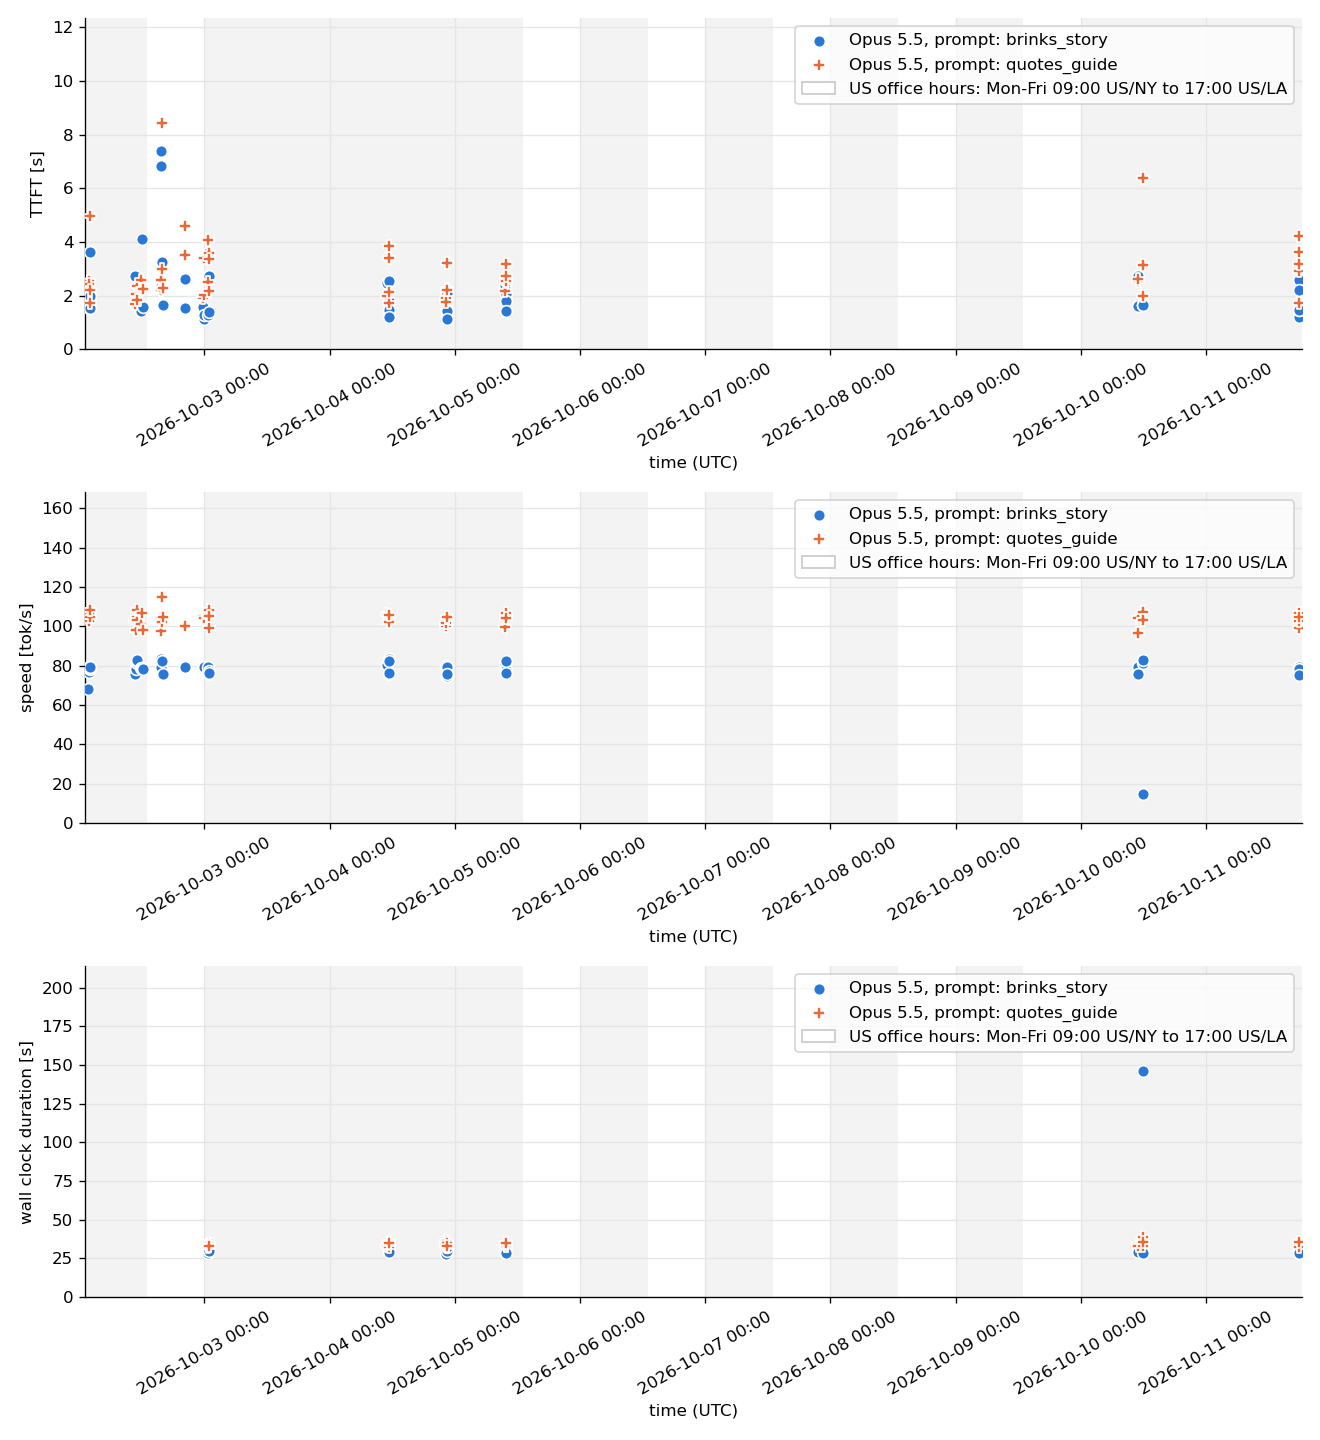
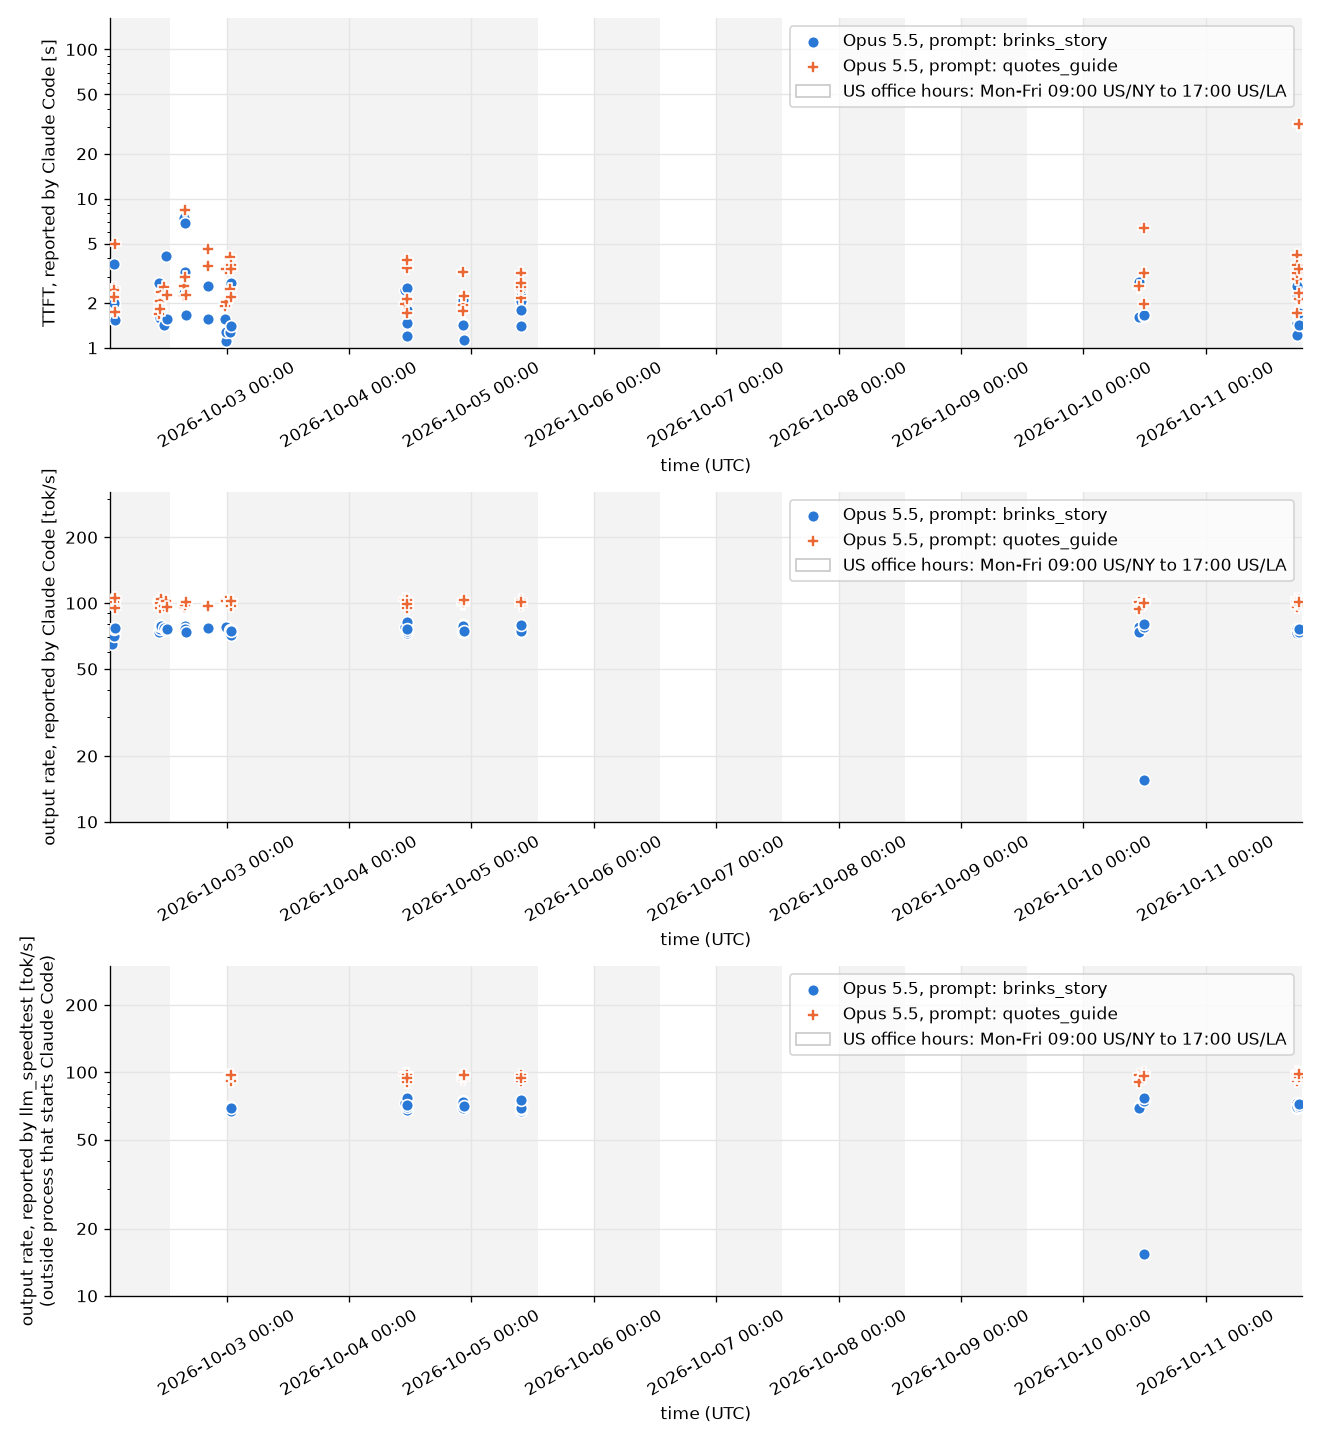
name columns by where they are measured, compute output rates in plot script, log y-axes
- rename CSV columns with claude_code_ and llm_speedtest_ prefixes, *_tokens to *_token_count
- remove the derived tok/s columns from the CSV; plot_results.py computes
  claude_code_api_tok_s and llm_speedtest_tok_s
- plot TTFT and the two output rates on logarithmic y-axes

diff --git a/plot_results.py b/plot_results.py
@@ -1,12 +1,12 @@
 #!/usr/bin/env python3
-"""Plots TTFT, decode speed and wall clock duration over time for each prompt from
-llm_speedtest_results.csv.
+"""Plots TTFT and output rates over time for each prompt from llm_speedtest_results.csv.
 
-Writes scatter plots above each other to llm_speedtest_plot.png next to this script, one each for
-TTFT, decode speed and, unless --no-wall-clock-duration is given, the wall clock duration
-measured by llm_speedtest.py. Each prompt has its own color and marker shape. All y-axes start at
-0 and extend upward far enough that all markers stay below the legend in the top right. The time
-axis spans at least MIN_TIME_SPAN from the first measurement. The background is light grey,
+Computes the output rates from the CSV columns, see add_output_rates. Writes scatter plots above
+each other to llm_speedtest_plot.png next to this script, one each for TTFT and output rate
+measured by Claude Code and output rate measured by llm_speedtest.py. Each prompt has its own color
+and marker shape. All y-axes are logarithmic, start at the power of 10 at or below the smallest
+value and extend upward far enough that all markers stay below the legend in the top right. The
+time axis spans at least MIN_TIME_SPAN from the first measurement. The background is light grey,
 except for US office hours, which are white. This script takes US office hours as weekdays from
 9:00 US Eastern time to 17:00 US Pacific time.
 """
@@ -14,6 +14,7 @@ except for US office hours, which are white. This script takes US office hours a
 import argparse
 import csv
 import fnmatch
+import math
 import re
 from datetime import datetime, time, timedelta, timezone
 from pathlib import Path
@@ -24,6 +25,7 @@ import matplotlib
 matplotlib.use("Agg")
 import matplotlib.dates as mdates
 import matplotlib.pyplot as plt
+import matplotlib.ticker as mticker
 from matplotlib.patches import Patch
 
 BASE_DIR = Path(__file__).resolve().parent
@@ -39,13 +41,16 @@ MIN_TIME_SPAN = timedelta(days=3)
 TIME_PADDING = timedelta(minutes=30)
 MARKER_AREA = 50
 LEGEND_GAP_PT = 6
+MAX_DECADES_FOR_125_TICKS = 3
+LAYOUT_PASSES = 2
 PROMPT_STYLES = [("#2a78d6", "o"), ("#eb6834", "P"), ("#1baf7a", "s"), ("#8a5bd6", "D")]
 
 METRICS = [
-    ("ttft_s", "TTFT [s]"),
-    ("decode_tok_s", "speed [tok/s]"),
+    ("claude_code_ttft_s", "TTFT, reported by Claude Code [s]"),
+    ("claude_code_api_tok_s", "output rate, reported by Claude Code [tok/s]"),
+    ("llm_speedtest_tok_s",
+     "output rate, reported by llm_speedtest [tok/s]\n(outside process that starts Claude Code)"),
 ]
-WALL_CLOCK_DURATION_METRIC = ("wall_clock_duration_s", "wall clock duration [s]")
 
 
 def load_rows(model_pattern):
@@ -56,9 +61,60 @@ def load_rows(model_pattern):
                 if model_pattern == "all" or fnmatch.fnmatchcase(r["model"], model_pattern)]
 
 
-def metric_max(rows, key):
-    """Returns the largest value of the metric in the rows, or 1 if no row has a value for it."""
-    return max((float(r[key]) for r in rows if r[key]), default=1)
+def number(text):
+    """Returns the CSV value as float, or None if it is empty."""
+    return float(text) if text else None
+
+
+def ratio(numerator, denominator):
+    """Returns numerator / denominator, or None if a value is None or the denominator is not
+    positive."""
+    if numerator is None or denominator is None or denominator <= 0:
+        return None
+    return numerator / denominator
+
+
+def add_output_rates(rows):
+    """Adds the output rates in tokens per second to each row:
+    claude_code_api_tok_s = output_token_count / claude_code_api_duration_s,
+    llm_speedtest_tok_s = output_token_count / llm_speedtest_duration_s."""
+    for r in rows:
+        output_token_count = number(r["output_token_count"])
+        r["claude_code_api_tok_s"] = ratio(output_token_count,
+                                           number(r["claude_code_api_duration_s"]))
+        r["llm_speedtest_tok_s"] = ratio(output_token_count,
+                                         number(r["llm_speedtest_duration_s"]))
+
+
+def has_positive_value(row, key):
+    """Returns whether the row has a value above 0 for the metric, which a log axis can show."""
+    return bool(row[key]) and float(row[key]) > 0
+
+
+def metric_range(rows, key):
+    """Returns the smallest and largest positive value of the metric in the rows, or (1, 10) if no
+    row has a positive value for it."""
+    values = [float(r[key]) for r in rows if has_positive_value(r, key)]
+    return (min(values), max(values)) if values else (1, 10)
+
+
+def setup_log_y_axis(ax, data_min):
+    """Makes the y-axis logarithmic and puts its lower limit at the power of 10 at or below
+    data_min."""
+    ax.set_yscale("log")
+    ax.set_ylim(bottom=10 ** math.floor(math.log10(data_min)))
+
+
+def set_log_y_ticks(ax):
+    """Labels the logarithmic y-axis with plain numbers, at 1, 2 and 5 times each power of 10 if the
+    axis spans at most MAX_DECADES_FOR_125_TICKS decades, else only at powers of 10."""
+    bottom, top = ax.get_ylim()
+    subs = (1, 2, 5) if math.log10(top / bottom) <= MAX_DECADES_FOR_125_TICKS else (1,)
+    ax.yaxis.set_major_locator(mticker.LogLocator(subs=subs))
+    ax.yaxis.set_major_formatter(
+        mticker.FuncFormatter(lambda y, _: f"{y:,.0f}" if y >= 1 else f"{y:g}"))
+    ax.yaxis.set_minor_locator(mticker.LogLocator(subs=range(1, 10)))
+    ax.yaxis.set_minor_formatter(mticker.NullFormatter())
 
 
 def us_office_spans(start, end):
@@ -89,7 +145,8 @@ def mark_us_office_hours(ax):
 
 
 def fit_ylim_below_legend(ax, data_max):
-    """Sets the upper y limit so that markers up to data_max end LEGEND_GAP_PT below the legend.
+    """Sets the upper limit of the logarithmic y-axis so that markers up to data_max end
+    LEGEND_GAP_PT below the legend, keeping the lower limit.
 
     Requires a drawn figure with the final layout, because it measures the legend in pixels."""
     pt_to_px = ax.figure.dpi / 72
@@ -97,7 +154,9 @@ def fit_ylim_below_legend(ax, data_max):
     legend_box = ax.get_legend().get_window_extent()
     marker_radius_pt = MARKER_AREA ** 0.5 / 2
     usable_px = legend_box.y0 - axes_box.y0 - (marker_radius_pt + LEGEND_GAP_PT) * pt_to_px
-    ax.set_ylim(bottom=0, top=data_max * axes_box.height / usable_px)
+    log_bottom = math.log10(ax.get_ylim()[0])
+    log_top = log_bottom + (math.log10(data_max) - log_bottom) * axes_box.height / usable_px
+    ax.set_ylim(top=10 ** log_top)
 
 
 def short_model_name(model_id):
@@ -117,37 +176,36 @@ def main():
                         help="plot only model IDs matching this pattern, wildcards allowed, e.g. "
                              "claude-opus-5-5 or claude-sonnet-*; \"all\" plots all models "
                              "(default: %(default)s)")
-    parser.add_argument("--wall-clock-duration", action=argparse.BooleanOptionalAction,
-                        default=True,
-                        help="plot the wall clock duration measured by llm_speedtest.py "
-                             "(default: on)")
     args = parser.parse_args()
 
     rows = load_rows(args.model)
     if not rows:
         raise SystemExit(f"no measurements for model {args.model} in {LOG_FILE}")
+    add_output_rates(rows)
     series = list(dict.fromkeys((r["model"], r["prompt_name"]) for r in rows))
     times = [datetime.fromisoformat(r["timestamp_utc"]) for r in rows]
     x_min = min(times) - TIME_PADDING
     x_max = max(max(times) + TIME_PADDING, x_min + MIN_TIME_SPAN)
-    metrics = METRICS + ([WALL_CLOCK_DURATION_METRIC] if args.wall_clock_duration else [])
-    fig, axes = plt.subplots(len(metrics), 1, figsize=(11, 4 * len(metrics)), sharex=True)
+    fig, axes = plt.subplots(len(METRICS), 1, figsize=(11, 4 * len(METRICS)), sharex=True)
     axes[0].set_xlim(x_min, x_max)
-    for ax, (key, label) in zip(axes, metrics):
+    for ax, (key, label) in zip(axes, METRICS):
         for (model_id, prompt_name), (color, marker) in zip(series, PROMPT_STYLES):
             series_rows = [r for r in rows
-                           if (r["model"], r["prompt_name"]) == (model_id, prompt_name) and r[key]]
+                           if (r["model"], r["prompt_name"]) == (model_id, prompt_name)
+                           and has_positive_value(r, key)]
             ax.scatter([datetime.fromisoformat(r["timestamp_utc"]) for r in series_rows],
                        [float(r[key]) for r in series_rows], s=MARKER_AREA, color=color, marker=marker,
                        edgecolors="white", linewidths=1, zorder=3,
                        label=f"{short_model_name(model_id)}, prompt: {prompt_name}")
         mark_us_office_hours(ax)
-        ax.set_ylim(bottom=0, top=metric_max(rows, key))
+        data_min, data_max = metric_range(rows, key)
+        setup_log_y_axis(ax, data_min)
+        ax.set_ylim(top=data_max)
         ax.set_ylabel(label)
         ax.set_xlabel("time (UTC)")
         ax.tick_params(axis="x", labelbottom=True, rotation=30)
         ax.xaxis.set_major_formatter(mdates.DateFormatter("%Y-%m-%d %H:%M"))
-        ax.grid(color="#e5e5e5", linewidth=0.8)
+        ax.grid(which="major", color="#e5e5e5", linewidth=0.8)
         ax.set_axisbelow(True)
         for side in ("top", "right"):
             ax.spines[side].set_visible(False)
@@ -156,10 +214,12 @@ def main():
                    else h for h, lbl in zip(handles, labels)]
         ax.legend(handles, labels, loc="upper right", frameon=True, facecolor="white", framealpha=0.75,
                   edgecolor="#c8c8c8")
-    fig.tight_layout()
-    fig.canvas.draw()
-    for ax, (key, _) in zip(axes, metrics):
-        fit_ylim_below_legend(ax, metric_max(rows, key))
+    for _ in range(LAYOUT_PASSES):
+        fig.tight_layout()
+        fig.canvas.draw()
+        for ax, (key, _) in zip(axes, METRICS):
+            fit_ylim_below_legend(ax, metric_range(rows, key)[1])
+            set_log_y_ticks(ax)
     fig.savefig(PLOT_FILE, dpi=120)
 
 

diff --git a/llm_speedtest.py b/llm_speedtest.py
@@ -36,15 +36,13 @@ CSV_FIELDS = [
     "timestamp_utc",
     "model",
     "prompt_name",
-    "ttft_s",
-    "duration_s",
-    "duration_api_s",
-    "wall_clock_duration_s",
-    "output_tokens",
-    "thinking_tokens",
-    "text_tokens",
-    "decode_tok_s",
-    "end_to_end_tok_s",
+    "claude_code_ttft_s",
+    "claude_code_duration_s",
+    "claude_code_api_duration_s",
+    "llm_speedtest_duration_s",
+    "output_token_count",
+    "thinking_token_count",
+    "text_token_count",
     "num_turns",
     "cost_usd",
     "is_error",
@@ -65,42 +63,39 @@ def add_cache_buster(prompt):
 
 def run_claude(prompt, model):
     """Runs the prompt through Claude Code in headless mode and returns the parsed JSON result and
-    the wall clock duration of the claude process in seconds, measured by this script."""
+    the duration of the claude process in seconds, measured by this script."""
     cmd = ["claude", "-p", prompt, "--output-format", "json"]
     if model:
         cmd += ["--model", model]
     start = time.perf_counter()
     proc = subprocess.run(cmd, capture_output=True, text=True)
-    wall_clock_duration_s = time.perf_counter() - start
+    llm_speedtest_duration_s = time.perf_counter() - start
     if not proc.stdout.strip():
         raise SystemExit(f"claude produced no output (exit {proc.returncode}): {proc.stderr}")
-    return json.loads(proc.stdout), wall_clock_duration_s
+    return json.loads(proc.stdout), llm_speedtest_duration_s
 
 
-def build_row(prompt_name, random_words, result, wall_clock_duration_s):
+def build_row(prompt_name, random_words, result, llm_speedtest_duration_s):
     """Extracts the speed metrics from a Claude Code JSON result into a CSV row."""
     usage = result.get("usage", {})
-    output_tokens = usage.get("output_tokens", 0)
-    thinking_tokens = usage.get("output_tokens_details", {}).get("thinking_tokens", 0)
-    text_tokens = output_tokens - thinking_tokens
-    ttft_s = result.get("ttft_ms", 0) / 1000
-    duration_s = result.get("duration_ms", 0) / 1000
-    duration_api_s = result.get("duration_api_ms", 0) / 1000
-    decode_s = (result.get("duration_ms", 0) - result.get("ttft_ms", 0)) / 1000
+    output_token_count = usage.get("output_tokens", 0)
+    thinking_token_count = usage.get("output_tokens_details", {}).get("thinking_tokens", 0)
+    text_token_count = output_token_count - thinking_token_count
+    claude_code_ttft_s = result.get("ttft_ms", 0) / 1000
+    claude_code_duration_s = result.get("duration_ms", 0) / 1000
+    claude_code_api_duration_s = result.get("duration_api_ms", 0) / 1000
     models = list(result.get("modelUsage", {}).keys())
     return {
         "timestamp_utc": datetime.now(timezone.utc).strftime("%Y-%m-%dT%H:%M:%S"),
         "model": ";".join(models),
         "prompt_name": prompt_name,
-        "ttft_s": f"{ttft_s:.3f}",
-        "duration_s": f"{duration_s:.3f}",
-        "duration_api_s": f"{duration_api_s:.3f}",
-        "wall_clock_duration_s": f"{wall_clock_duration_s:.3f}",
-        "output_tokens": output_tokens,
-        "thinking_tokens": thinking_tokens,
-        "text_tokens": text_tokens,
-        "decode_tok_s": f"{text_tokens / decode_s:.3f}" if decode_s > 0 else "",
-        "end_to_end_tok_s": f"{output_tokens / duration_api_s:.3f}" if duration_api_s > 0 else "",
+        "claude_code_ttft_s": f"{claude_code_ttft_s:.3f}",
+        "claude_code_duration_s": f"{claude_code_duration_s:.3f}",
+        "claude_code_api_duration_s": f"{claude_code_api_duration_s:.3f}",
+        "llm_speedtest_duration_s": f"{llm_speedtest_duration_s:.3f}",
+        "output_token_count": output_token_count,
+        "thinking_token_count": thinking_token_count,
+        "text_token_count": text_token_count,
         "num_turns": result.get("num_turns", ""),
         "cost_usd": f"{result.get('total_cost_usd', 0):.8f}",
         "is_error": result.get("is_error", ""),
@@ -126,12 +121,14 @@ def main():
     for prompt_name, prompt in PROMPTS.items():
         random_words, full_prompt = add_cache_buster(prompt)
         print(f"=== {prompt_name} prompt ===\n{full_prompt}\n", flush=True)
-        result, wall_clock_duration_s = run_claude(full_prompt, args.model)
+        result, llm_speedtest_duration_s = run_claude(full_prompt, args.model)
         print(f"=== {prompt_name} response ===\n{result.get('result', '')}\n")
-        row = build_row(prompt_name, random_words, result, wall_clock_duration_s)
+        row = build_row(prompt_name, random_words, result, llm_speedtest_duration_s)
         append_log(row)
-        print(f"{prompt_name}: {row['output_tokens']} tokens ({row['thinking_tokens']} thinking), "
-              f"TTFT {row['ttft_s']} s, decode {row['decode_tok_s']} tok/s")
+        print(f"{prompt_name}: {row['output_token_count']} tokens "
+              f"({row['thinking_token_count']} thinking), "
+              f"TTFT {row['claude_code_ttft_s']} s (Claude Code), "
+              f"duration {row['llm_speedtest_duration_s']} s (llm_speedtest)")
 
 
 if __name__ == "__main__":

diff --git a/README.md b/README.md
@@ -6,7 +6,7 @@ appends one CSV row per prompt. A second script plots the results over time.
 
 ## Example Plot
 
-[![TTFT and decode speed of Claude Opus 5.5 over time](llm_speedtest_plot.png)](../../raw/main/llm_speedtest_plot.png)
+[![TTFT and speeds of Claude Opus 5.5 over time](llm_speedtest_plot.png)](../../raw/main/llm_speedtest_plot.png)
 
 ## Requirements
 
@@ -40,12 +40,19 @@ pip install matplotlib
 ```
 
 This writes `llm_speedtest_plot.png` next to the script, with three diagrams above each other:
-TTFT, decode speed and wall clock duration, one color and marker shape per model and prompt.
-`--no-wall-clock-duration` leaves out the wall clock duration diagram. `--model <pattern>` plots
-only the model IDs that match the pattern, which can contain wildcards like `*`. The default is
-`claude-opus-*`, and `--model all` plots all models. A white background marks US office hours
-(Mon-Fri, 09:00 US Eastern time to 17:00 US Pacific time), and a grey background marks all other
-times.
+TTFT and output rate as measured by Claude Code, and output rate as measured by
+`llm_speedtest.py`, one color and marker shape per model and prompt. The script computes the
+output rates in tokens per second from the CSV columns:
+
+| Output rate | Formula |
+| ----------- | ------- |
+| `claude_code_api_tok_s` | `output_token_count / claude_code_api_duration_s` |
+| `llm_speedtest_tok_s` | `output_token_count / llm_speedtest_duration_s` |
+
+`--model <pattern>` plots only the model IDs that match the pattern, which can contain wildcards
+like `*`. The default is `claude-opus-*`, and `--model all` plots all models. A white background
+marks US office hours (Mon-Fri, 09:00 US Eastern time to 17:00 US Pacific time), and a grey
+background marks all other times.
 
 ## CSV columns
 
@@ -54,15 +61,13 @@ times.
 | `timestamp_utc` | time the measurement ended, UTC |
 | `model` | model(s) reported by Claude Code, separated by `;` |
 | `prompt_name` | name of the prompt |
-| `ttft_s` | time to first token in seconds |
-| `duration_s` | total duration in seconds |
-| `duration_api_s` | time spent in API calls in seconds |
-| `wall_clock_duration_s` | wall clock duration of the `claude` process in seconds, measured by the script; empty in rows from before this column existed |
-| `output_tokens` | all output tokens, including thinking tokens |
-| `thinking_tokens` | thinking tokens |
-| `text_tokens` | `output_tokens - thinking_tokens` |
-| `decode_tok_s` | `text_tokens / (duration_s - ttft_s)` |
-| `end_to_end_tok_s` | `output_tokens / duration_api_s` |
+| `claude_code_ttft_s` | time to first token in seconds, measured by Claude Code |
+| `claude_code_duration_s` | total duration in seconds, measured by Claude Code |
+| `claude_code_api_duration_s` | time spent in API calls in seconds, measured by Claude Code |
+| `llm_speedtest_duration_s` | duration of the `claude` process in seconds, measured by `llm_speedtest.py`; empty in rows from before this column existed |
+| `output_token_count` | all output tokens, including thinking tokens |
+| `thinking_token_count` | thinking tokens |
+| `text_token_count` | `output_token_count - thinking_token_count` |
 | `num_turns` | number of agent turns |
 | `cost_usd` | cost in US dollars as reported by Claude Code |
 | `is_error` | error flag as reported by Claude Code |
